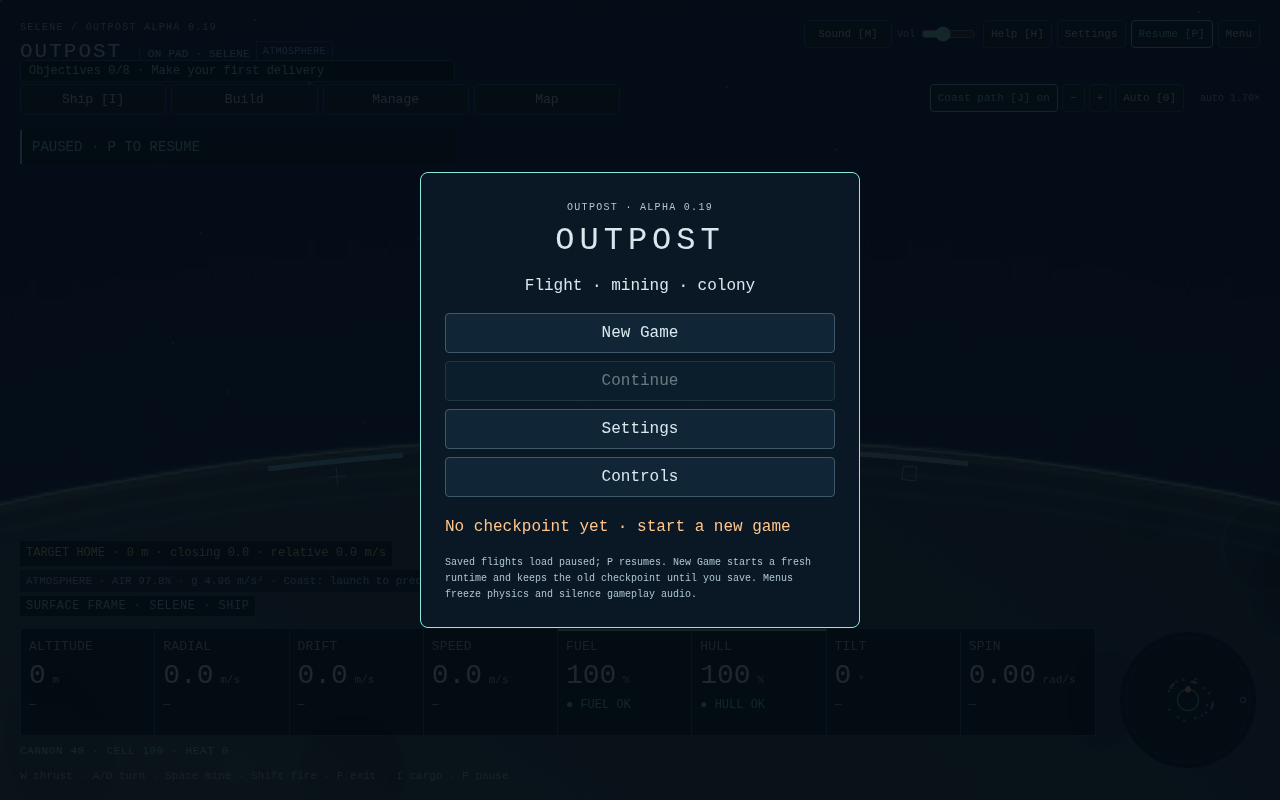
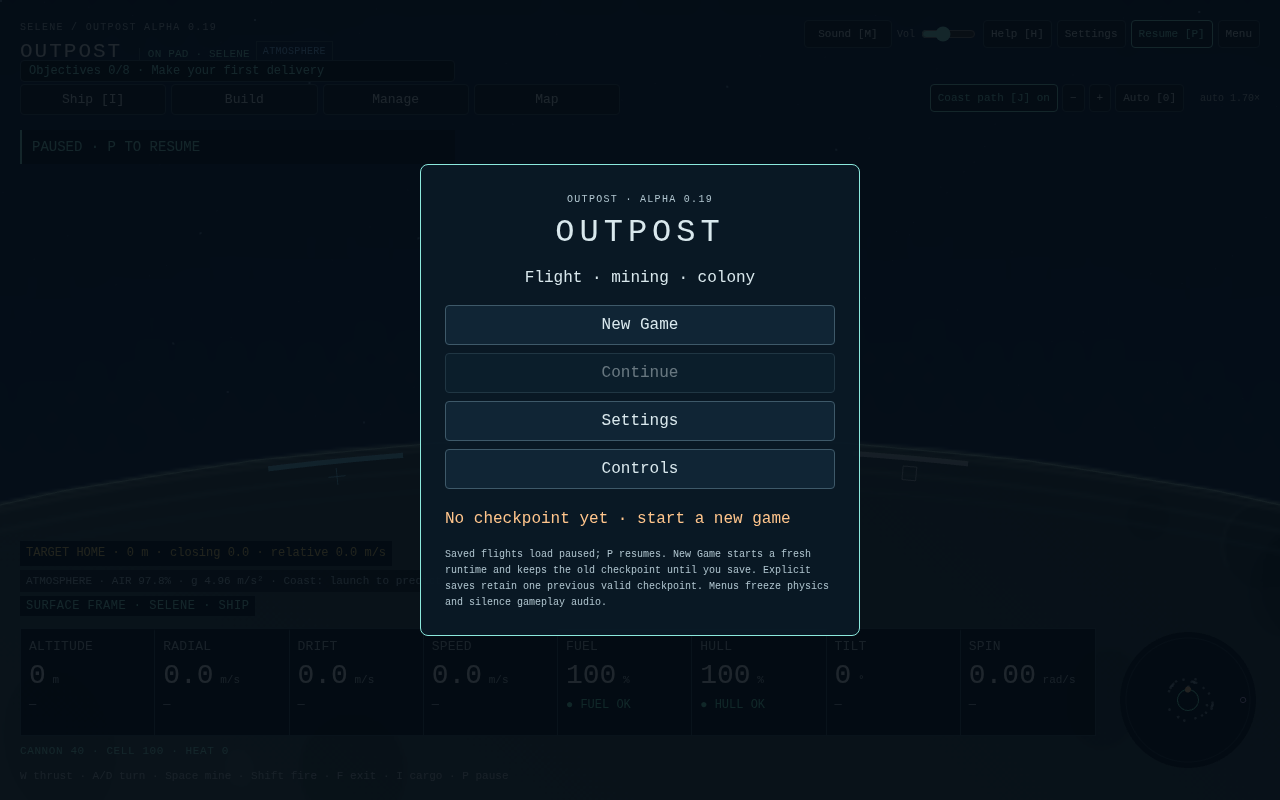
Retain a previous valid checkpoint and recover visibly after save failures

Changed region(s): [[0.3438, 0.3438, 0.6562, 0.7812], [0.4375, 0.25, 0.5625, 0.3125]]

diff --git a/src/ui/Help.ts b/src/ui/Help.ts
@@ -4,7 +4,7 @@ export class Help {
   constructor(private onToggle: (open: boolean) => void) {
     this.dialog.id = 'help'; this.dialog.setAttribute('aria-label', 'Outpost quick-start and controls');
     this.dialog.innerHTML = `<div class="help-title"><span class="eyebrow">OUTPOST · PLAYTEST ALPHA 0.19</span><button type="button">Return to game [H / Esc]</button></div>
-      <h2>Start and continue</h2><p>New Game starts a fresh runtime and keeps the old checkpoint until you save. Continue loads a valid current checkpoint paused; P resumes. Menu offers Resume, Save/Load, Settings, Controls and Return to title. Escape closes a panel first, then opens the pause menu; Escape resumes from that menu. Menus freeze physics and silence gameplay audio.</p><h2>Set up your flight deck</h2><p><b>Settings</b> changes text size, motion, graphics, the horizon camera, music/effects levels and all keyboard bindings. This guide shows defaults; the settings binding table and contextual hints show your chosen keys. <b>Objectives</b> records actual deliveries, supplied industry, equipment and a moon work/return trip. It grants no supplies. Choose a tracked goal for live progress and a direct link to its controls. Colony milestones cover 20 seconds of actually supplied habitat air, all ten research projects and a real meteor interception. The collapsible Selene starter-route budget shows remaining materials, reserved-stock shortfalls and separate energy needs; paid work is counted once. Drills remain opt-in.</p><h2>Find your controls</h2><p>Top-left Ship, Build, Manage and Map buttons use one operations dock. Ship groups Cargo, Weapons and Defence. Build plans construction; Manage operates installed facilities. <b>I</b> toggles cargo; <b>Esc</b> closes the panel. Relevant panels open when you build, operate a turret, enter combat or open the depot. Closing a panel never pauses the world; <b>P</b> pauses. Telemetry and weapon state stay along the bottom so targets remain visible.</p><h2>Mouse building and crew orders</h2><p>Open <b>Build</b>, choose a category and blueprint, point near the surface and <b>left click</b> to queue a paid site. <b>Right click</b> finishes placement. Numeric site and queue controls provide keyboard alternatives; Q/T/Enter remains nearby manual placement. Planning can be inspected while paused; costs/work stay frozen. <b>Dispatch crew to build queue</b> walks the real deployed astronaut into work range, then completes paid eight-second orders. Travel, oxygen, gravity and risk remain real. Away from placement, <b>right click ground</b> to walk. A/D, jumping, boarding or turret control cancels a crew order; Stop is also available in the HUD. Low suit air stops the order; it does not refill or automatically return the crew. Each world has its own shared grid; click facilities for actual Manage power controls, with no fake cable links.</p><h2>Your first sortie</h2><p>Launch from the green pad, mine ore, land, then build a small working colony on the larger planet and its 1.2 km atmosphere.</p>
+      <h2>Start and continue</h2><p>New Game starts a fresh runtime and keeps the old checkpoint until you save. Continue loads a valid current checkpoint paused; P resumes. Explicit saves retain one previous valid flight. If the latest is missing or invalid, Continue identifies and loads that older flight; loading never rewrites storage. Menu offers Resume, Save/Load, Settings, Controls and Return to title. Escape closes a panel first, then opens the pause menu; Escape resumes from that menu. Menus freeze physics and silence gameplay audio.</p><h2>Set up your flight deck</h2><p><b>Settings</b> changes text size, motion, graphics, the horizon camera, music/effects levels and all keyboard bindings. This guide shows defaults; the settings binding table and contextual hints show your chosen keys. <b>Objectives</b> records actual deliveries, supplied industry, equipment and a moon work/return trip. It grants no supplies. Choose a tracked goal for live progress and a direct link to its controls. Colony milestones cover 20 seconds of actually supplied habitat air, all ten research projects and a real meteor interception. The collapsible Selene starter-route budget shows remaining materials, reserved-stock shortfalls and separate energy needs; paid work is counted once. Drills remain opt-in.</p><h2>Find your controls</h2><p>Top-left Ship, Build, Manage and Map buttons use one operations dock. Ship groups Cargo, Weapons and Defence. Build plans construction; Manage operates installed facilities. <b>I</b> toggles cargo; <b>Esc</b> closes the panel. Relevant panels open when you build, operate a turret, enter combat or open the depot. Closing a panel never pauses the world; <b>P</b> pauses. Telemetry and weapon state stay along the bottom so targets remain visible.</p><h2>Mouse building and crew orders</h2><p>Open <b>Build</b>, choose a category and blueprint, point near the surface and <b>left click</b> to queue a paid site. <b>Right click</b> finishes placement. Numeric site and queue controls provide keyboard alternatives; Q/T/Enter remains nearby manual placement. Planning can be inspected while paused; costs/work stay frozen. <b>Dispatch crew to build queue</b> walks the real deployed astronaut into work range, then completes paid eight-second orders. Travel, oxygen, gravity and risk remain real. Away from placement, <b>right click ground</b> to walk. A/D, jumping, boarding or turret control cancels a crew order; Stop is also available in the HUD. Low suit air stops the order; it does not refill or automatically return the crew. Each world has its own shared grid; click facilities for actual Manage power controls, with no fake cable links.</p><h2>Your first sortie</h2><p>Launch from the green pad, mine ore, land, then build a small working colony on the larger planet and its 1.2 km atmosphere.</p>
       <ol><li><b>Fly:</b> hold W / Up for about 6.5 seconds for a low atmospheric hop, then coast. Hold Space to clear the starter rock above home, or steer around it. A/D or arrows rotate. Gravity acts everywhere; air resistance fades to zero in space.</li>
       <li><b>Return:</b> keep the nose upright, pulse thrust early during descent. Touch down on green with descent ≤ 6 m/s, drift ≤ 4 m/s, tilt ≤ 15°. Backspace recovers a lost ship using supplies; R starts a fresh runtime.</li>
       <li><b>Mine:</b> Space fires forward. Hold C to attract ore within 260 m. The starter iron sample is above home; ice is slightly right. Release thrust after the short launch burn so you can return.</li>

diff --git a/tests/browser/checkpointRecovery.spec.ts b/tests/browser/checkpointRecovery.spec.ts
@@ -1,0 +1,29 @@
+import { expect,test } from '@playwright/test';
+import { createWorld } from '../../src/sim/world';
+import { encodeCheckpoint, SAVE_KEY, PREVIOUS_SAVE_KEY } from '../../src/persistence/checkpoint';
+const menu=(page:import('@playwright/test').Page)=>page.getByRole('dialog',{name:'Outpost game menu',exact:true});
+function snapshot(fuel:number){const w=createWorld();w.ship.fuel=fuel;w.colony.products.alloy=19;return encodeCheckpoint(w);}
+
+test('offers an older validated flight, loads it paused across reloads and only repairs storage on explicit save',async({page})=>{
+ const previous=snapshot(210);await page.addInitScript(({previous,primaryKey,previousKey})=>{if(!sessionStorage.getItem('recovery-seeded')){localStorage.setItem(primaryKey,'{broken');localStorage.setItem(previousKey,previous);sessionStorage.setItem('recovery-seeded','1');}},{previous,primaryKey:SAVE_KEY,previousKey:PREVIOUS_SAVE_KEY});
+ const errors:string[]=[];page.on('pageerror',e=>errors.push(e.message));
+ for(let i=0;i<2;i++){
+  await page.goto('/');await expect(menu(page)).toContainText('Previous checkpoint available');await menu(page).getByRole('button',{name:'Continue',exact:true}).click();await expect(page.locator('#hud')).toHaveAttribute('data-state','paused');await expect(page.locator('#hud')).toHaveAttribute('data-fuel','210.00');await expect(page.locator('.status')).toContainText('PREVIOUS CHECKPOINT LOADED');const time=await page.locator('#hud').getAttribute('data-time');await page.keyboard.down('w');await page.waitForTimeout(250);await page.keyboard.up('w');await expect(page.locator('#hud')).toHaveAttribute('data-time',time!);await expect(page.locator('#sound-panel')).toHaveAttribute('data-loops','0');expect(await page.evaluate(key=>localStorage.getItem(key),SAVE_KEY)).toBe('{broken');
+ }
+ await page.getByRole('button',{name:'Open game menu',exact:true}).click();await menu(page).getByRole('button',{name:'Save checkpoint',exact:true}).click();await expect(menu(page).locator('.menu-status')).toHaveText('Checkpoint saved');const slots=await page.evaluate(({primaryKey,previousKey})=>({primary:JSON.parse(localStorage.getItem(primaryKey)!),previous:localStorage.getItem(previousKey)}),{primaryKey:SAVE_KEY,previousKey:PREVIOUS_SAVE_KEY});expect(slots.primary.world.ship.fuel).toBe(210);expect(slots.primary.world.colony.products.alloy).toBe(19);expect(slots.previous).toBe(previous);expect(errors).toEqual([]);
+});
+
+for(const failedKey of [PREVIOUS_SAVE_KEY,SAVE_KEY])test(`keeps the last good flight and reports a failed ${failedKey} write in menu and keyboard saves`,async({page})=>{
+ await page.addInitScript(({primary,previous,primaryKey,previousKey,failedKey})=>{
+  localStorage.setItem(primaryKey,primary);localStorage.setItem(previousKey,previous);const original=Storage.prototype.setItem;
+  Storage.prototype.setItem=function(key:string,value:string){if(this===localStorage&&key===failedKey)throw new DOMException('Quota exceeded','QuotaExceededError');return original.call(this,key,value);};
+ },{primary:snapshot(180),previous:snapshot(210),primaryKey:SAVE_KEY,previousKey:PREVIOUS_SAVE_KEY,failedKey});
+ await page.goto('/');await menu(page).getByRole('button',{name:'New Game',exact:true}).click();await page.getByRole('button',{name:'Open game menu',exact:true}).click();await menu(page).getByRole('button',{name:'Save checkpoint',exact:true}).click();await expect(menu(page).locator('.menu-status')).toContainText('Save failed');await expect(page.locator('#hud')).toHaveAttribute('data-fuel','240.00');
+ const primary=await page.evaluate(key=>JSON.parse(localStorage.getItem(key)!),SAVE_KEY);expect(primary.world.ship.fuel).toBe(180);
+ await menu(page).getByRole('button',{name:'Resume',exact:true}).click();await page.keyboard.press('p');await expect(page.locator('#hud')).toHaveAttribute('data-state','paused');await page.keyboard.press('k');await expect(page.locator('.status')).toContainText('CHECKPOINT SAVE FAILED');expect(await page.evaluate(key=>JSON.parse(localStorage.getItem(key)!).world.ship.fuel,SAVE_KEY)).toBe(180);
+ await page.keyboard.press('l');await expect(page.locator('#hud')).toHaveAttribute('data-state','paused');await expect(page.locator('#hud')).toHaveAttribute('data-fuel','180.00');
+});
+
+test('keeps the current runtime when both saved copies fail validation and leaves New Game available',async({page})=>{
+ await page.goto('/');await menu(page).getByRole('button',{name:'New Game',exact:true}).click();await page.keyboard.press('p');await expect(page.locator('#hud')).toHaveAttribute('data-state','paused');const before=await page.locator('#hud').getAttribute('data-time');await page.evaluate(({primaryKey,previousKey})=>{localStorage.setItem(primaryKey,'{broken');localStorage.setItem(previousKey,JSON.stringify({version:17,world:{}}));},{primaryKey:SAVE_KEY,previousKey:PREVIOUS_SAVE_KEY});await page.keyboard.press('l');await expect(page.locator('.status')).toContainText('CURRENT WORLD KEPT');await expect(page.locator('#hud')).toHaveAttribute('data-time',before!);await expect(page.locator('#hud')).toHaveAttribute('data-fuel','240.00');await page.getByRole('button',{name:'Open game menu',exact:true}).click();await menu(page).getByRole('button',{name:'Return to title',exact:true}).click();await expect(menu(page).getByRole('button',{name:'Continue',exact:true})).toBeDisabled();await menu(page).getByRole('button',{name:'New Game',exact:true}).click();await expect(page.locator('#hud')).toHaveAttribute('data-state','landed');expect(await page.evaluate(key=>localStorage.getItem(key),SAVE_KEY)).toBe('{broken');
+});

diff --git a/tests/checkpointRecovery.test.ts b/tests/checkpointRecovery.test.ts
@@ -1,0 +1,45 @@
+import { expect, it } from 'vitest';
+import { createWorld } from '../src/sim/world';
+import { SAVE_KEY, PREVIOUS_SAVE_KEY, encodeCheckpoint, inspectCheckpoint, readCheckpoint, writeCheckpoint } from '../src/persistence/checkpoint';
+function memory() {
+ const items = new Map<string,string>(), writes:string[]=[];
+ return { items, writes, getItem:(key:string)=>items.get(key)??null, setItem:(key:string,value:string)=>{writes.push(key);items.set(key,value);} };
+}
+function world(fuel:number) { const w=createWorld();w.ship.fuel=fuel;return w; }
+it('retains a distinct previous valid flight and prefers the latest without changing either snapshot on read',()=>{
+ const s=memory();writeCheckpoint(s,world(220));writeCheckpoint(s,world(180));const before=new Map(s.items);
+ expect(inspectCheckpoint(s).source).toBe('checkpoint');expect(readCheckpoint(s)?.ship.fuel).toBe(180);expect(s.items).toEqual(before);
+ writeCheckpoint(s,world(180));expect(s.items.get(PREVIOUS_SAVE_KEY)).toBe(encodeCheckpoint(world(220)));expect(s.writes).toEqual([SAVE_KEY,PREVIOUS_SAVE_KEY,SAVE_KEY]);
+});
+it.each(['missing','invalid','incompatible','oversized'])('offers only the validated previous snapshot when the latest is %s',kind=>{
+ const s=memory();writeCheckpoint(s,world(220));writeCheckpoint(s,world(180));
+ if(kind==='missing')s.items.delete(SAVE_KEY);else s.items.set(SAVE_KEY,kind==='invalid'?'{broken':kind==='oversized'?' '.repeat(1_000_001):JSON.stringify({version:17,world:createWorld()}));
+ const before=new Map(s.items),selected=inspectCheckpoint(s);expect(selected.source).toBe('previous');expect(selected.world?.ship.fuel).toBe(220);expect(selected.world?.buttons.board).toBe(false);expect(s.items).toEqual(before);
+});
+it.each([PREVIOUS_SAVE_KEY,SAVE_KEY])('keeps a usable prior flight when the %s write fails',failedKey=>{
+ const s=memory();writeCheckpoint(s,world(220));writeCheckpoint(s,world(180));const primary=s.items.get(SAVE_KEY);
+ const failing={getItem:s.getItem,setItem:(key:string,value:string)=>{if(key===failedKey)throw new Error('Quota exceeded');s.setItem(key,value);}};
+ expect(()=>writeCheckpoint(failing,world(100))).toThrow('Quota exceeded');expect(s.items.get(SAVE_KEY)).toBe(primary);expect(readCheckpoint(s)?.ship.fuel).toBe(180);
+ s.items.set(SAVE_KEY,'{broken');expect(readCheckpoint(s)?.ship.fuel).toBe(failedKey===SAVE_KEY?180:220);
+});
+it('does not replace a good fallback with corrupt data when saving a recovered or fresh run',()=>{
+ const s=memory();s.items.set(SAVE_KEY,'{broken');s.items.set(PREVIOUS_SAVE_KEY,encodeCheckpoint(world(220)));const previous=s.items.get(PREVIOUS_SAVE_KEY);
+ writeCheckpoint(s,world(150));expect(s.items.get(PREVIOUS_SAVE_KEY)).toBe(previous);expect(readCheckpoint(s)?.ship.fuel).toBe(150);
+});
+it('rejects invalid runtime state before reading or changing storage',()=>{
+ const s=memory();writeCheckpoint(s,world(220));const before=new Map(s.items),w=world(-1);
+ expect(()=>writeCheckpoint({...s,getItem:()=>{throw new Error('Should not read');}},w)).toThrow('World state cannot be saved');expect(s.items).toEqual(before);
+});
+it('rejects two unusable slots and never migrates or silently deletes them',()=>{
+ const s=memory();s.items.set(SAVE_KEY,'{broken');s.items.set(PREVIOUS_SAVE_KEY,JSON.stringify({version:17,world:createWorld()}));const before=new Map(s.items);
+ expect(()=>inspectCheckpoint(s)).toThrow('No valid current-format checkpoint');expect(s.items).toEqual(before);
+});
+it('ignores a broken backup when the latest is valid and propagates inaccessible storage without writes',()=>{
+ const s=memory();writeCheckpoint(s,world(220));s.items.set(PREVIOUS_SAVE_KEY,'{broken');expect(readCheckpoint(s)?.ship.fuel).toBe(220);
+ const denied={getItem:()=>{throw new Error('Storage denied');},setItem:s.setItem};const count=s.writes.length;
+ expect(()=>readCheckpoint(denied)).toThrow('Storage denied');expect(()=>writeCheckpoint(denied,world(150))).toThrow('Storage denied');expect(s.writes).toHaveLength(count);
+});
+it('preserves the fallback when a replacement of corrupt primary fails',()=>{
+ const s=memory();s.items.set(SAVE_KEY,'{broken');const previous=encodeCheckpoint(world(210));s.items.set(PREVIOUS_SAVE_KEY,previous);
+ expect(()=>writeCheckpoint({getItem:s.getItem,setItem:()=>{throw new Error('Full');}},world(150))).toThrow('Full');expect(s.items.get(PREVIOUS_SAVE_KEY)).toBe(previous);expect(readCheckpoint(s)?.ship.fuel).toBe(210);
+});

diff --git a/src/persistence/checkpoint.ts b/src/persistence/checkpoint.ts
@@ -23,6 +23,7 @@ import { WORLD } from '../sim/config';
 import { SUIT } from '../sim/astronaut';
 
 export const SAVE_KEY = 'outpost.checkpoint.v1'; // Stable slot key; the envelope version rejects incompatible development saves.
+export const PREVIOUS_SAVE_KEY = 'outpost.checkpoint.previous';
 type RecordValue = Record<string, unknown>;
 const object = (value: unknown): value is RecordValue => value !== null && typeof value === 'object' && !Array.isArray(value);
 const number = (value: unknown, min = 0, max = 1e9): value is number => typeof value === 'number' && Number.isFinite(value) && value >= min && value <= max;
@@ -92,7 +93,30 @@ export function decodeCheckpoint(text: string): WorldState {
   world.notice = { message: 'CHECKPOINT LOADED · P TO RESUME', time: 3 };
   return world;
 }
-export function writeCheckpoint(storage: Pick<Storage, 'setItem'>, world: WorldState): void { storage.setItem(SAVE_KEY, encodeCheckpoint(world)); }
-export function readCheckpoint(storage: Pick<Storage, 'getItem'>): WorldState | null {
-  const text = storage.getItem(SAVE_KEY); return text === null ? null : decodeCheckpoint(text);
+type CheckpointStorage = Pick<Storage, 'getItem' | 'setItem'>;
+export interface CheckpointSelection { world: WorldState | null; source: 'checkpoint' | 'previous' | null }
+/** Reads never repair or overwrite storage. Only current-format, fully validated snapshots are usable. */
+export function inspectCheckpoint(storage: Pick<Storage, 'getItem'>): CheckpointSelection {
+  const primary = storage.getItem(SAVE_KEY);
+  if (primary !== null) {
+    try { return { world: decodeCheckpoint(primary), source: 'checkpoint' }; } catch { /* Try the previous good checkpoint. */ }
+  }
+  const previous = storage.getItem(PREVIOUS_SAVE_KEY);
+  if (previous !== null) {
+    try { return { world: decodeCheckpoint(previous), source: 'previous' }; } catch { /* Both slots are unusable. */ }
+  }
+  if (primary !== null || previous !== null) throw new Error('No valid current-format checkpoint');
+  return { world: null, source: null };
 }
+export function writeCheckpoint(storage: CheckpointStorage, world: WorldState): void {
+  const next = encodeCheckpoint(world); // Validate before touching either slot.
+  const current = storage.getItem(SAVE_KEY);
+  if (current === next) return; // Repeated saves must not replace the previous distinct checkpoint.
+  let valid = false;
+  if (current !== null) { try { decodeCheckpoint(current); valid = true; } catch { /* Never rotate corrupt/incompatible data over a good backup. */ } }
+  // Each localStorage write is atomic. If rotation fails, leave the primary untouched;
+  // if the primary write fails, the old primary is untouched and any valid backup survives.
+  if (valid) storage.setItem(PREVIOUS_SAVE_KEY, current!);
+  storage.setItem(SAVE_KEY, next);
+}
+export function readCheckpoint(storage: Pick<Storage, 'getItem'>): WorldState | null { return inspectCheckpoint(storage).world; }

diff --git a/src/render/FlightScene.ts b/src/render/FlightScene.ts
@@ -30,7 +30,7 @@ import { drawSurface } from './surface';
 import { drawColony } from './colony';
 import { applyColonyAction, type ColonyAction } from '../sim/colony';
 import { notify } from '../sim/messages';
-import { readCheckpoint, writeCheckpoint } from '../persistence/checkpoint';
+import { inspectCheckpoint, writeCheckpoint } from '../persistence/checkpoint';
 import { GameAudio } from '../audio/GameAudio';
 import { Help } from '../ui/Help';
 import { SoundControls } from '../ui/SoundControls';
@@ -131,7 +131,7 @@ export class FlightScene extends Phaser.Scene {
       this.menu.destroy();this.settings.destroy(); this.audio.destroy(); this.soundControls.destroy(); this.help.destroy(); this.keys.destroy(); this.hud.destroy();
       this.flightTools.destroy(); this.game.canvas.removeEventListener('wheel', wheel);
     });
-    this.menu=new GameMenu(action=>this.menuAction(action),()=>{try{const save=readCheckpoint(localStorage);return {hasSave:!!save,saveStatus:save?'Checkpoint available · Continue loads paused':'No checkpoint yet · start a new game',hasRun:this.hasRun};}catch{return {hasSave:false,saveStatus:'Checkpoint unavailable or incompatible · New Game is available',hasRun:this.hasRun};}},()=>controlHint('P resumes',this.preferences));
+    this.menu=new GameMenu(action=>this.menuAction(action),()=>{try{const save=inspectCheckpoint(localStorage);return {hasSave:!!save.world,saveStatus:save.source==='previous'?'Previous checkpoint available · latest checkpoint missing or invalid · Continue loads the older flight paused':save.world?'Checkpoint available · Continue loads paused':'No checkpoint yet · start a new game',hasRun:this.hasRun};}catch{return {hasSave:false,saveStatus:'Checkpoint unavailable or incompatible · New Game is available',hasRun:this.hasRun};}},()=>controlHint('P resumes',this.preferences));
     this.setPaused(true);this.menu.open('title');
   }
   private newGame():void{
@@ -214,8 +214,9 @@ export class FlightScene extends Phaser.Scene {
   }
   private loadCheckpoint(requested: boolean): boolean {
     try {
-      const saved = readCheckpoint(window.localStorage);
+      const selection = inspectCheckpoint(window.localStorage), saved = selection.world;
       if (saved) {
+        if(selection.source==='previous')notify(saved,'PREVIOUS CHECKPOINT LOADED · LATEST MISSING OR INVALID · P TO RESUME');
         this.simulation = saved; this.paused = true; this.keys.release(); this.clock.reset(); this.colonyActions = [];
         this.follow.reset(saved.playerMode === 'astronaut' ? saved.astronaut : saved.ship,saved.system);
         this.audio.reset(saved);this.effects.reset(saved); this.audio.silence();

diff --git a/src/ui/GameMenu.ts b/src/ui/GameMenu.ts
@@ -18,7 +18,7 @@ export class GameMenu {
  private render():void{
   const focused=this.dialog.contains(document.activeElement)?(document.activeElement as HTMLElement)?.dataset.menu:null;
   const info=this.info(),button=(action:MenuAction,label:string,disabled=false)=>`<button type="button" data-menu="${action}" ${disabled?'disabled':''}>${label}</button>`;
-  this.dialog.innerHTML=`<div class="menu-brand"><span class="eyebrow">OUTPOST · ALPHA 0.19</span><h1>${this.mode==='title'?'OUTPOST':'Game paused'}</h1><p>Flight · mining · colony</p></div><nav aria-label="Game menu">${this.mode==='pause'?button('resume','Resume')+button('save','Save checkpoint')+button('continue','Load checkpoint',!info.hasSave):button('new','New Game')+button('continue','Continue',!info.hasSave)+(info.hasRun?button('resume','Resume current run'):'')}${button('settings','Settings')}${button('controls','Controls')}${this.mode==='pause'?button('title','Return to title'):''}</nav><p class="menu-status" role="status">${this.status||info.saveStatus}</p><small>Saved flights load paused; ${this.resumeHint()}. New Game starts a fresh runtime and keeps the old checkpoint until you save. Menus freeze physics and silence gameplay audio.</small>`;
+  this.dialog.innerHTML=`<div class="menu-brand"><span class="eyebrow">OUTPOST · ALPHA 0.19</span><h1>${this.mode==='title'?'OUTPOST':'Game paused'}</h1><p>Flight · mining · colony</p></div><nav aria-label="Game menu">${this.mode==='pause'?button('resume','Resume')+button('save','Save checkpoint')+button('continue','Load checkpoint',!info.hasSave):button('new','New Game')+button('continue','Continue',!info.hasSave)+(info.hasRun?button('resume','Resume current run'):'')}${button('settings','Settings')}${button('controls','Controls')}${this.mode==='pause'?button('title','Return to title'):''}</nav><p class="menu-status" role="status">${this.status||info.saveStatus}</p><small>Saved flights load paused; ${this.resumeHint()}. New Game starts a fresh runtime and keeps the old checkpoint until you save. Explicit saves retain one previous valid checkpoint. Menus freeze physics and silence gameplay audio.</small>`;
   if(focused)this.dialog.querySelector<HTMLButtonElement>(`button[data-menu="${focused}"]:not(:disabled)`)?.focus({preventScroll:true});
  }
  destroy():void{this.dialog.remove();}

diff --git a/tests/checkpoint.test.ts b/tests/checkpoint.test.ts
@@ -44,7 +44,7 @@ it('uses a versioned storage key, reports missing checkpoints and propagates una
   const storage = { setItem: (key: string, text: string) => { items.set(key, text); }, getItem: (key: string) => items.get(key) ?? null };
   expect(readCheckpoint(storage)).toBeNull(); writeCheckpoint(storage, createWorld()); expect(items.has(SAVE_KEY)).toBe(true);
   expect(readCheckpoint(storage)?.colony.products.alloy).toBe(28);
-  expect(() => writeCheckpoint({ setItem: () => { throw new Error('Quota exceeded'); } }, createWorld())).toThrow('Quota exceeded');
+  expect(() => writeCheckpoint({ getItem: () => null, setItem: () => { throw new Error('Quota exceeded'); } }, createWorld())).toThrow('Quota exceeded');
 });
 
 it.each([1, 7, 13, 14, 15, 16, 17, 19])('rejects incompatible development save version %i without migrating it', version => {

diff --git a/README.md b/README.md
@@ -2,7 +2,7 @@
 
 A single-player, retro-inspired 2D spaceflight, asteroid mining, combat and colony-building game. Target balance: **60% action / 40% construction**.
 
-**Status:** Alpha 0.19 playtest preparation: ten research technologies, sixteen functional ship parts across eight exclusive slots, a standard title/pause menu, and recovery/refuelling readiness. Builds on merged progression #24. See [catalogue, controls and suggested playtest](docs/PLAYTEST_ALPHA019.md). Human pacing/handling/UI feedback, representative hardware, reliability/content and release acceptance remain open.
+**Status:** Alpha 0.19 playtest preparation: ten research technologies, sixteen functional ship parts across eight exclusive slots, a standard title/pause menu, and recovery/refuelling readiness. Builds on merged progression #24. See [catalogue, controls and suggested playtest](docs/PLAYTEST_ALPHA019.md). Current-format saves also retain one previous valid checkpoint, with visible paused recovery and storage-failure protection; see [checkpoint recovery](docs/CHECKPOINT_RECOVERY.md). Human pacing/handling/UI feedback, representative hardware, reliability/content and release acceptance remain open.
 
 ## Play locally
 
@@ -201,7 +201,7 @@ npm run benchmark
 
 `npm run preview` serves the production build. `dist/` can be hosted on any static HTTP server. `test:browser` checks the dev server; `test:preview` checks the built game. CI runs typecheck, unit tests, build and production Chromium checks, and uploads screenshots, results and the `outpost-playtest` static build artifact.
 
-Region tests cover the real atmosphere/drag boundary, thin air, gravity in vacuum, crossing chimes and pause/load/cooldown behavior; a browser route flies across the boundary in both directions and checks the persistent badge at desktop sizes. Towing tests cover supplied equipment/mass, candidate safety, equal/opposite impulses, dissipative damping, slack and breaks, preserved momentum, recovery, active saves and a full tow-fragment → mine/collect → land/unload loop. Two browser routes cover native fabrication, actual tension/controls, reset/reload and prediction suspension. Flight-warning tests cover physical threshold equality, pad/local-up and signed motion, landing/fuel state gating, alarm cadence/priority and rapid re-entry. Browser checks measure actual warning audio, verify pause/mute/reduced-motion behavior, and inspect warning-instrument clipping/separation at all three desktop sizes. Resource-priority regressions cover all manufactured-material consumers, reserved power spent by turrets/service, fractional protected delivery room, capacity destruction, actual impact/repair cycle preservation, remote release, optional zero-policy behavior and checkpoint continuation. A production browser route changes holds from ship/surface, pauses/releases mining, blocks reserved construction and restores policy across reset/reload. Scheduling regressions cover fair recipe rotation, target stopping/replenishment, co-product storage blocks, scarce shared feedstock, paid-cycle preservation, manual overrides, automatic ice-to-fuel mass conservation and active save continuation. A production browser route builds mining/refining/solar, switches from unavailable copper to iron automatically, reaches a target, edits it with native keyboard controls and restores an active schedule. Surface-mining regressions cover finite/shared reserves, power/storage pauses, destruction/repair/rebuild, iron and ice mass-conserving processing, frame-rate independence and current save continuation. A production browser route builds a powered rig, toggles extraction and restores its depleted reserve across reset/reload. The **457 unit tests** cover flight, mining, suit/camera behavior, colony construction/power/storage/recipes/refuelling/checkpoints and audio event selection/preferences. Scenarios cover mining return/delivery, depot walking/relaunch, and unloaded ice → water/oxygen → fuel → ship refuel with recipe mass conservation. **Fifty-five production Chromium checks** cover flight, surface controls, mining, construction/production/checkpoint restoration, corrupt saves, actual Web Audio output/silence/preferences, and help/pause/modified shortcut behavior. Screenshots include the [quick-start guide](docs/screenshots/playtest-guide.png). Layout checks cover viewport bounds/central clearance at 900×600, 1280×800 and 1920×1080, context/paused panel navigation, help/Escape and construction scrolling. Additional checks cover ship combat victories/return/paid repair and rearm with both weapons, recoil and ammunition mass, drone behaviors, live combat saves and recovery, plus full defence victories for all weapon variants, impact/repair and scarcity, manual/automatic turret controls, active-drill checkpoint continuation, gravity/drag, orbital energy, collision/tractor momentum, trajectory accuracy, zoom and current saves. See the [atmosphere and trajectory](docs/screenshots/atmosphere-trajectory.png). Full mining return is also verified in simulation; other browsers, human feel and subjective sound balance remain for the playtest.
+Region tests cover the real atmosphere/drag boundary, thin air, gravity in vacuum, crossing chimes and pause/load/cooldown behavior; a browser route flies across the boundary in both directions and checks the persistent badge at desktop sizes. Towing tests cover supplied equipment/mass, candidate safety, equal/opposite impulses, dissipative damping, slack and breaks, preserved momentum, recovery, active saves and a full tow-fragment → mine/collect → land/unload loop. Two browser routes cover native fabrication, actual tension/controls, reset/reload and prediction suspension. Flight-warning tests cover physical threshold equality, pad/local-up and signed motion, landing/fuel state gating, alarm cadence/priority and rapid re-entry. Browser checks measure actual warning audio, verify pause/mute/reduced-motion behavior, and inspect warning-instrument clipping/separation at all three desktop sizes. Resource-priority regressions cover all manufactured-material consumers, reserved power spent by turrets/service, fractional protected delivery room, capacity destruction, actual impact/repair cycle preservation, remote release, optional zero-policy behavior and checkpoint continuation. A production browser route changes holds from ship/surface, pauses/releases mining, blocks reserved construction and restores policy across reset/reload. Scheduling regressions cover fair recipe rotation, target stopping/replenishment, co-product storage blocks, scarce shared feedstock, paid-cycle preservation, manual overrides, automatic ice-to-fuel mass conservation and active save continuation. A production browser route builds mining/refining/solar, switches from unavailable copper to iron automatically, reaches a target, edits it with native keyboard controls and restores an active schedule. Surface-mining regressions cover finite/shared reserves, power/storage pauses, destruction/repair/rebuild, iron and ice mass-conserving processing, frame-rate independence and current save continuation. A production browser route builds a powered rig, toggles extraction and restores its depleted reserve across reset/reload. The **469 unit tests** cover flight, mining, suit/camera behavior, colony construction/power/storage/recipes/refuelling/checkpoints and audio event selection/preferences. Scenarios cover mining return/delivery, depot walking/relaunch, and unloaded ice → water/oxygen → fuel → ship refuel with recipe mass conservation. **Fifty-nine production Chromium checks** cover flight, surface controls, mining, construction/production/checkpoint restoration, corrupt saves, actual Web Audio output/silence/preferences, and help/pause/modified shortcut behavior. Screenshots include the [quick-start guide](docs/screenshots/playtest-guide.png). Layout checks cover viewport bounds/central clearance at 900×600, 1280×800 and 1920×1080, context/paused panel navigation, help/Escape and construction scrolling. Additional checks cover ship combat victories/return/paid repair and rearm with both weapons, recoil and ammunition mass, drone behaviors, live combat saves and recovery, plus full defence victories for all weapon variants, impact/repair and scarcity, manual/automatic turret controls, active-drill checkpoint continuation, gravity/drag, orbital energy, collision/tractor momentum, trajectory accuracy, zoom and current saves. See the [atmosphere and trajectory](docs/screenshots/atmosphere-trajectory.png). Full mining return is also verified in simulation; other browsers, human feel and subjective sound balance remain for the playtest.
 
 ## Architecture and tuning
 

diff --git a/docs/CHECKPOINT_RECOVERY.md b/docs/CHECKPOINT_RECOVERY.md
@@ -1,0 +1,18 @@
+# Current-format checkpoint recovery
+
+Task 015 adds one previous checkpoint to alpha 0.19. It does not change the version-18 world format and does not migrate earlier development saves. Checkpoints remain manual and browser-local; clearing browser data, private browsing or device loss can remove both copies.
+
+On an explicit save, validate and serialize the runtime first. If the latest stored checkpoint is valid, copy its exact bytes into the previous slot before replacing the latest. If the previous-slot write fails, stop and keep the latest. If the latest-slot write fails, the old latest is still usable. Identical serialized saves leave the previous distinct checkpoint alone. Corrupt/incompatible latest data never overwrites a valid previous copy.
+
+Continue and L prefer the validated latest checkpoint. When it is absent or invalid, they can load the validated previous checkpoint instead. The title identifies this as an older flight; the HUD reports **PREVIOUS CHECKPOINT LOADED**. It loads paused, with held controls cleared and gameplay audio silent. Loading never rewrites either stored copy. Saving explicitly after recovery writes a new latest while preserving the valid fallback. New Game preserves both slots until you save. If neither copy is valid or storage is inaccessible, Continue is unavailable and a requested load keeps the current runtime.
+
+This uses localStorage's atomic individual writes, not a multi-key transaction or cross-tab lock. One game tab at a time is recommended. There is no autosave, cloud sync, checkpoint history beyond one previous copy, legacy migration or guarantee against browser-wide deletion. A first save has no earlier checkpoint yet; the second distinct valid save creates the fallback.
+
+## Review and playtest
+
+1. Save a flight, make a meaningful change and save again. Continue normally loads the latest flight paused.
+2. In a disposable browser profile, corrupt or remove only `outpost.checkpoint.v1` in developer tools. Keep `outpost.checkpoint.previous`. Reload: the title should identify the previous checkpoint. Continue loads that older flight paused without changing either stored entry.
+3. Save explicitly after recovering. Reload and confirm the latest now loads normally. The valid fallback must not have been replaced with corrupt data.
+4. With storage denied/full, check that Save reports failure and the current flight stays intact. An invalid load must not replace your runtime. Do not test quota failures on a valued save.
+
+Automated fault-injection covers both write positions and denied reads. Native browser routes cover title recovery across reloads, explicit save, menu and K/L storage failures, pause/input/audio, and unusable current/previous copies. Existing menu/flight/checkpoint routes remain regression coverage. Human multi-session testing and representative hardware remain open Phase 10/9 acceptance work.

diff --git a/CODEX_TASK_015.md b/CODEX_TASK_015.md
@@ -1,0 +1,14 @@
+# Task 015 — Current-format checkpoint recovery
+
+Follow AGENTS.md and docs/GAME_DESIGN.md. User direction: merge the completed research/parts/menu work and continue to the next phase. This begins the bounded Phase 10 reliability work on top of Task 014. Do not add legacy-save migrations, autosaves, remote services or new gameplay systems.
+
+- Before replacing a valid checkpoint, retain its exact bytes as the previous checkpoint. Validate the runtime before any storage access and abort if backup rotation fails. A failed primary write must leave a usable prior flight. Repeated identical saves must not rotate away the previous distinct checkpoint.
+- Prefer the valid latest current-format save; fall back to a validated previous save only when the latest is absent/invalid. Reads do not mutate storage. Never promote corrupt/incompatible data over the backup. New Game continues to preserve stored checkpoints until an explicit save.
+- Clearly identify the older flight in the title menu and after loading. Load paused, silence gameplay audio, clear held input and keep the current runtime if neither copy can load.
+- Test quota/access failures, validation failure, repeated reads/saves, incompatible/corrupt/oversized/missing saves, real menu/keyboard/reload flows and existing checkpoint routes. Run build, typecheck and relevant regression checks.
+
+Task 014 is committed on `feat/research-parts-menu` but is not pushed or merged: automatic approval review rejected source export to the configured GitHub repository, requiring explicit destination authorization. This follow-up is stacked locally on `feat/checkpoint-recovery`. Neither phase may be described as remotely merged until the block is resolved and CI passes.
+
+## Local verification
+
+Implemented current-format-only backup rotation and read-only, visibly paused recovery. Typecheck, all 469 unit tests and the final production build pass. All 13 focused production-browser regressions pass recovery/fault injection plus existing menu, flight, crew, mining and production-line checkpoint restoration. After updating the in-game explanation, all eight menu/recovery scenarios pass again against the final rebuilt source, including enlarged text at all three desktop sizes. Twelve new unit cases and four new browser scenarios cover this slice; the full browser catalogue is now 59. The full remote CI suite remains a merge gate once publishing is authorized. Human multi-session usability/hardware testing and the remaining Phase 10 content/reliability acceptance are open.

diff --git a/docs/DEVELOPMENT_ROADMAP.md b/docs/DEVELOPMENT_ROADMAP.md
@@ -204,6 +204,8 @@ The existing procedural sound, mute/volume controls and H guide provide the base
 
 
 ## Phase 10 — Saves, reliability and content
+
+[Task 015](../CODEX_TASK_015.md) begins current-format checkpoint recovery: one previous valid copy, visible paused fallback and storage-failure regression coverage. It is a local follow-up to Task 014 pending remote authorization and CI. See [storage guarantees and playtest](CHECKPOINT_RECOVERY.md). Legacy compatibility remains deferred.
 **Dependencies:** Core mechanics stable.
 - [ ] Reliable save/load and corruption recovery near completion. Development saves may be reset; legacy compatibility is deferred by user direction.
 - [ ] Persist ship, world, inventory, buildings, damage, resources and events.
@@ -221,7 +223,7 @@ The existing procedural sound, mute/volume controls and H guide provide the base
 
 ## Immediate next action
 
-Finish verification and merge Task 014, then hand the build to the user for the requested playtest. Use feedback on research/parts, menus, handling, pace and readiness to prioritize remaining economy/content/reliability work before release. No legacy migrations are required during this prototype phase.
+Resolve remote destination authorization, run CI and merge Task 014 plus the Task 015 checkpoint-recovery follow-up, then hand the build to the user for the requested playtest. Use feedback on research/parts, menus, handling, pace and readiness to prioritize remaining economy/content/reliability work before release. No legacy migrations are required during this prototype phase.
 
 ## Risks to watch
 - Camera rotation and world/screen coordinate transforms.
